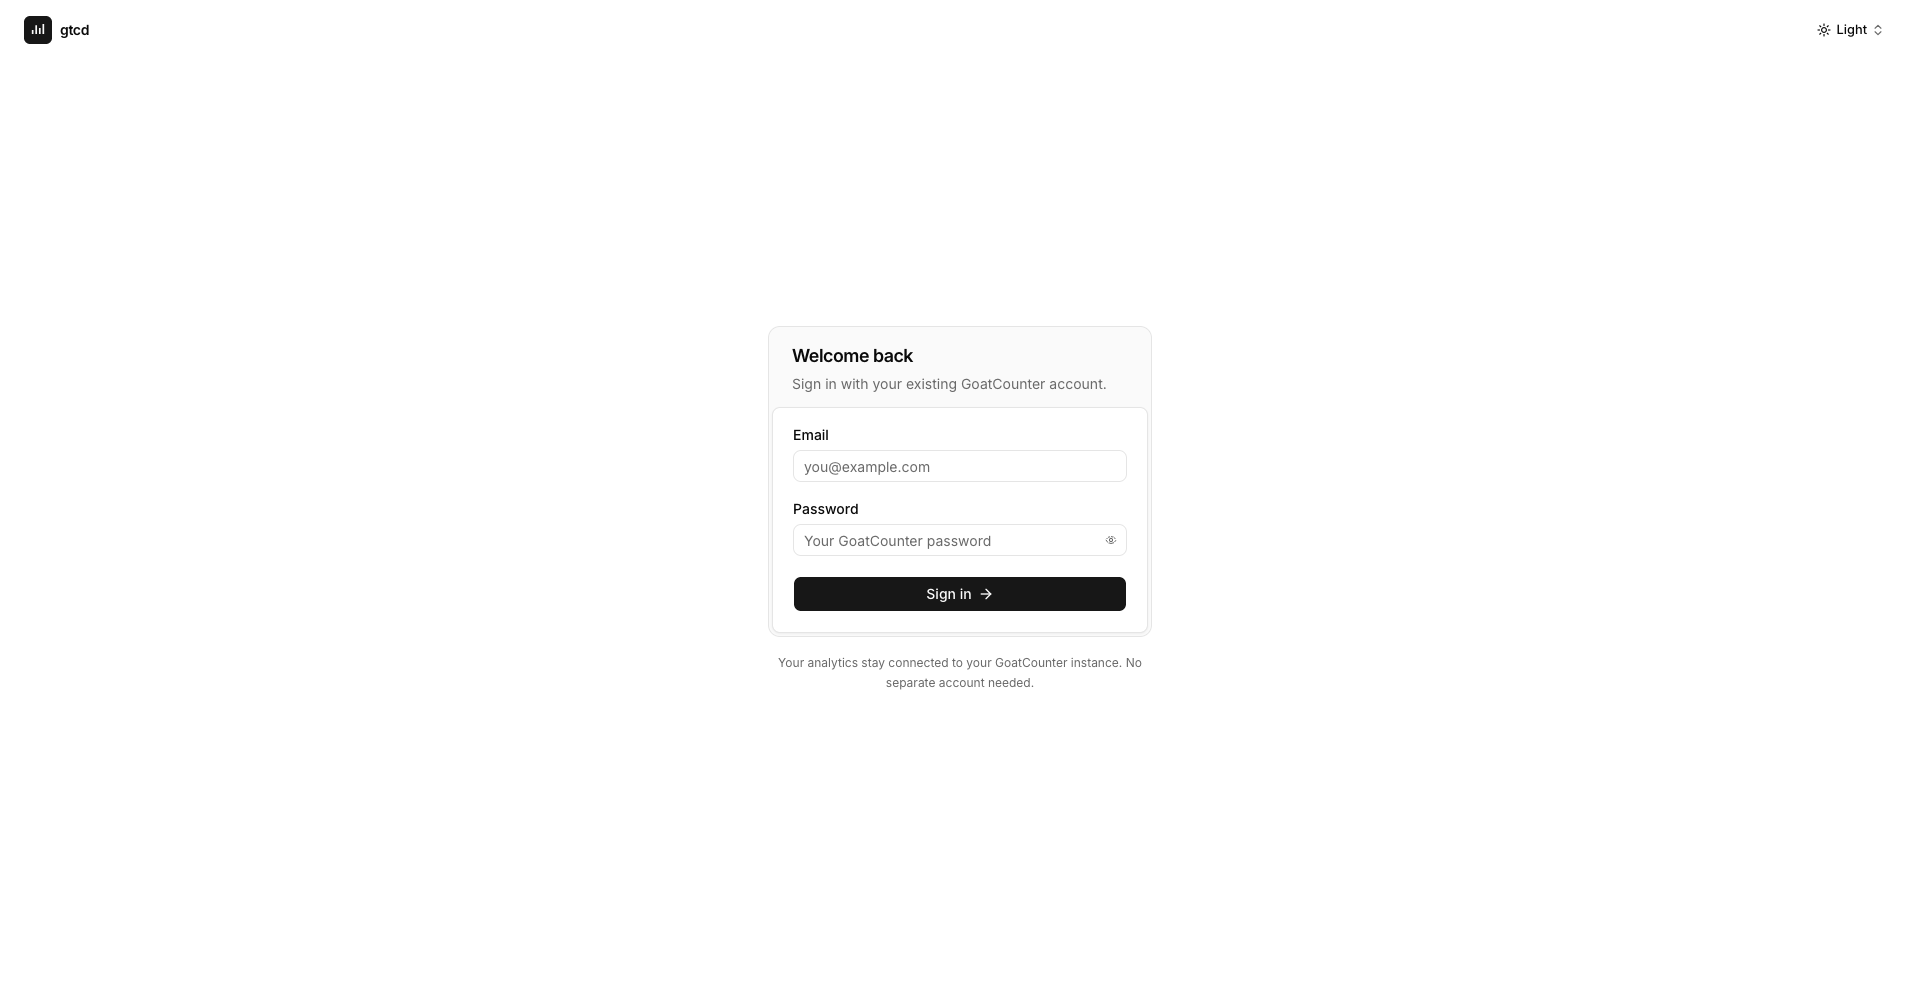
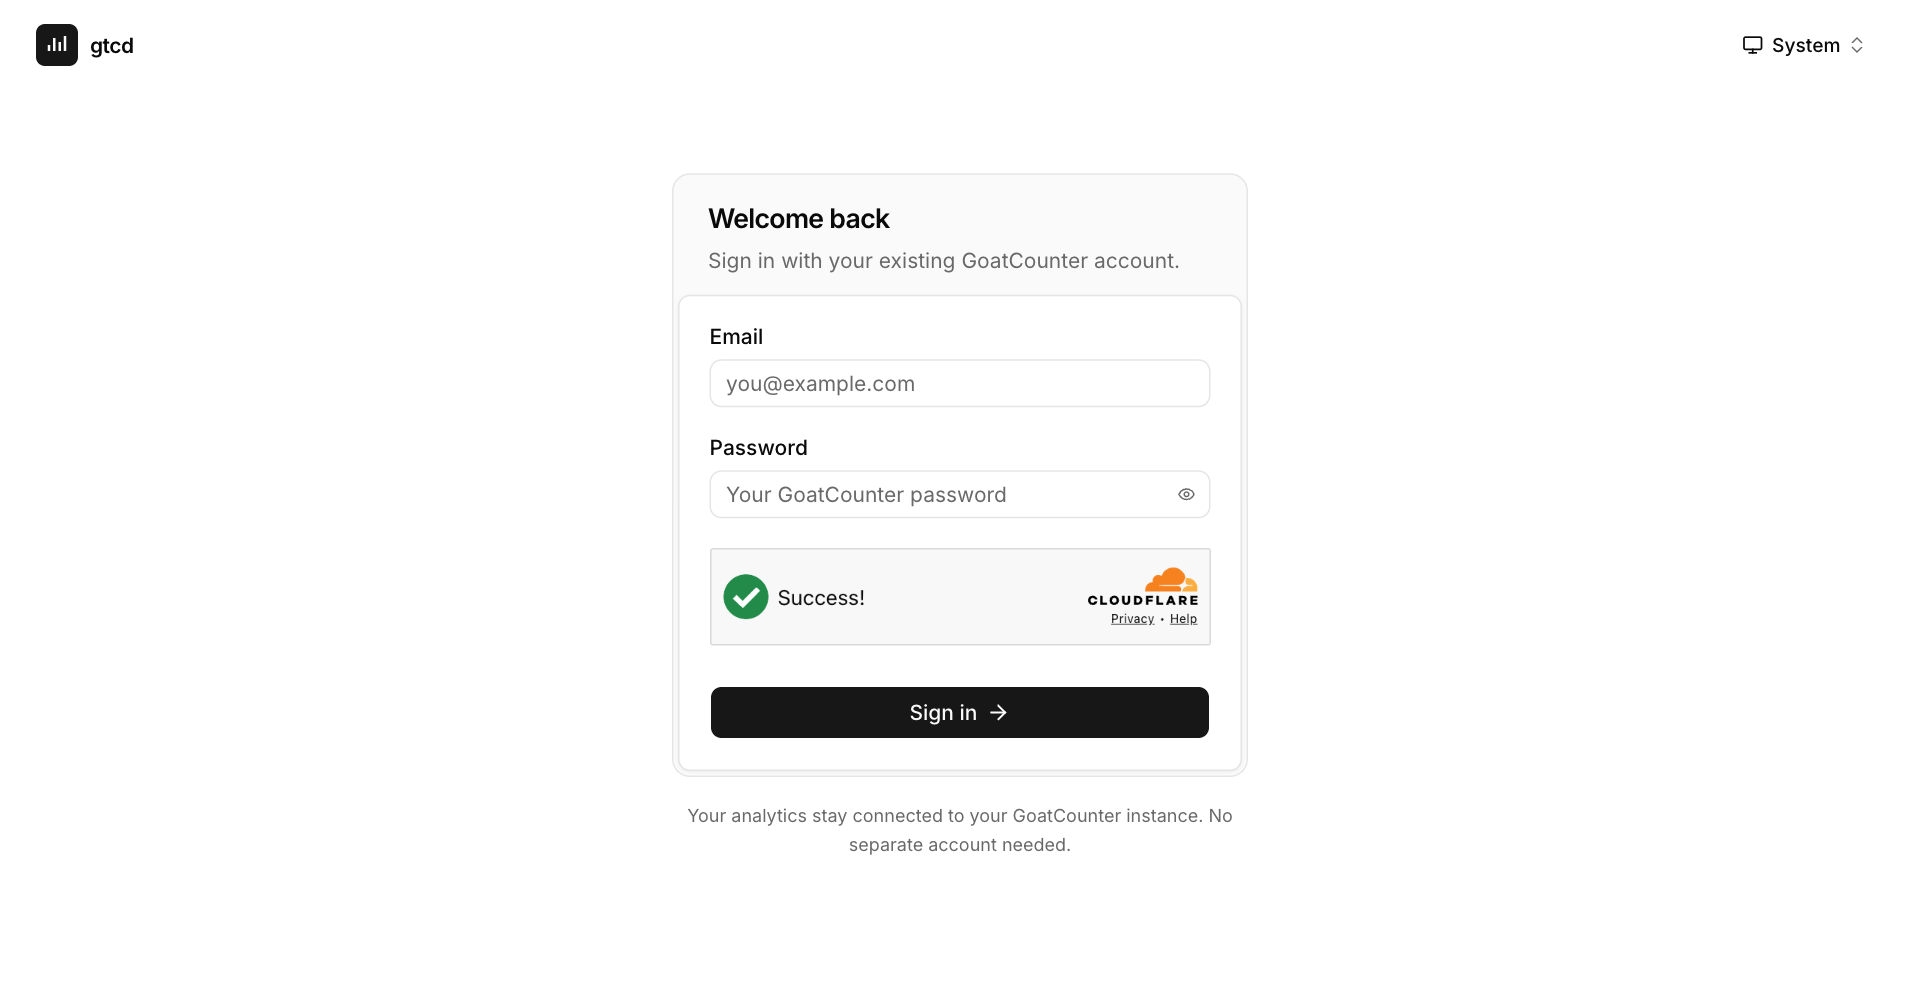
docs: document Turnstile login check and refresh login screenshot
README lists the Turnstile env vars and feature; the login screenshot shows a passed check.

diff --git a/README.md b/README.md
@@ -23,7 +23,7 @@ A fast, responsive, and customizable self-hosted web dashboard for [GoatCounter]
 - **Curated Dark & Light Modes**: Clean UI built on ReUI/shadcn CSS design tokens (`.dark` class on the document root, applied before first paint to avoid flashing).
 - **Power-User Ergonomics**: Collapsible desktop sidebar with `Cmd+B` / `Ctrl+B` toggle, mobile drawer, GoatCounter's period presets (day, week, month, quarter, half year, year) with back/forward stepping, saved report views, and a customizable overview.
 - **Your GoatCounter Preferences**: Dates, hours, and numbers follow the timezone, date format, 24-hour clock, and thousands separator set in GoatCounter, so report ranges match GoatCounter's own dashboard even when the server runs in UTC.
-- **Safe Server-Side API Mediation**: The browser never sees your `GOATCOUNTER_API_KEY`. Authentication uses HTTP-only session cookies validated against your GoatCounter login. Docker Compose passes `PROTOCOL_HEADER`/`HOST_HEADER`, so CSRF origin checks and cookie flags derive from the reverse proxy's request headers.
+- **Safe Server-Side API Mediation**: The browser never sees your `GOATCOUNTER_API_KEY`. Authentication uses HTTP-only session cookies validated against your GoatCounter login. An optional Cloudflare Turnstile check on the login form (`TURNSTILE_SITE_KEY` and `TURNSTILE_SECRET_KEY`) stops bots before they reach GoatCounter. Docker Compose passes `PROTOCOL_HEADER`/`HOST_HEADER`, so CSRF origin checks and cookie flags derive from the reverse proxy's request headers.
 - **Zero Third-Party Requests**: Fonts are self-hosted; the dashboard makes no calls to external CDNs, so visitor IPs never leak to third parties and it works fully offline.
 - **Upstream Rate-Limit Protection**: An outbound queue pacer (280ms spacing), exponential backoff with jitter, and a 30s query cache prevent `429 Too Many Requests` errors from GoatCounter's 4 req/sec limit.
 - **Resilient Session Store**: Distributed Redis session layer with automatic fallback to an in-memory store if Redis is unavailable.
@@ -171,7 +171,7 @@ are illustrative.
 
 <table>
   <tr>
-    <td><img src="static/screenshots/login.png" alt="gtcd sign-in page with the GoatCounter account form"></td>
+    <td><img src="static/screenshots/login.png" alt="gtcd sign-in page with the GoatCounter account form and a passed Cloudflare Turnstile check"></td>
     <td><img src="static/screenshots/not-found.png" alt="Not found error page with Continue and Previous page actions"></td>
   </tr>
 </table>
@@ -373,6 +373,8 @@ Configure these in your `.env` file or container environment:
 | `SMTP_PASSWORD`         |    No    | —                         | SMTP password.                                                                                                                                                                                                 |
 | `SMTP_FROM`             |    No    | —                         | Sender address, e.g. `gtcd reports <reports@example.com>`.                                                                                                                                                     |
 | `GTCD_PUBLIC_URL`       |    No    | —                         | Public HTTPS URL of the dashboard, used for links in email reports.                                                                                                                                            |
+| `TURNSTILE_SITE_KEY`    |    No    | —                         | Cloudflare Turnstile site key. With `TURNSTILE_SECRET_KEY`, the login form requires a Turnstile check.                                                                                                         |
+| `TURNSTILE_SECRET_KEY`  |    No    | —                         | Turnstile secret key, verified server-side. The check stays off until both keys are set.                                                                                                                       |
 
 The login session cookie is `HttpOnly`, `SameSite=Lax`, and its `Secure` flag
 follows the protocol the client actually used, so both `http://localhost`
